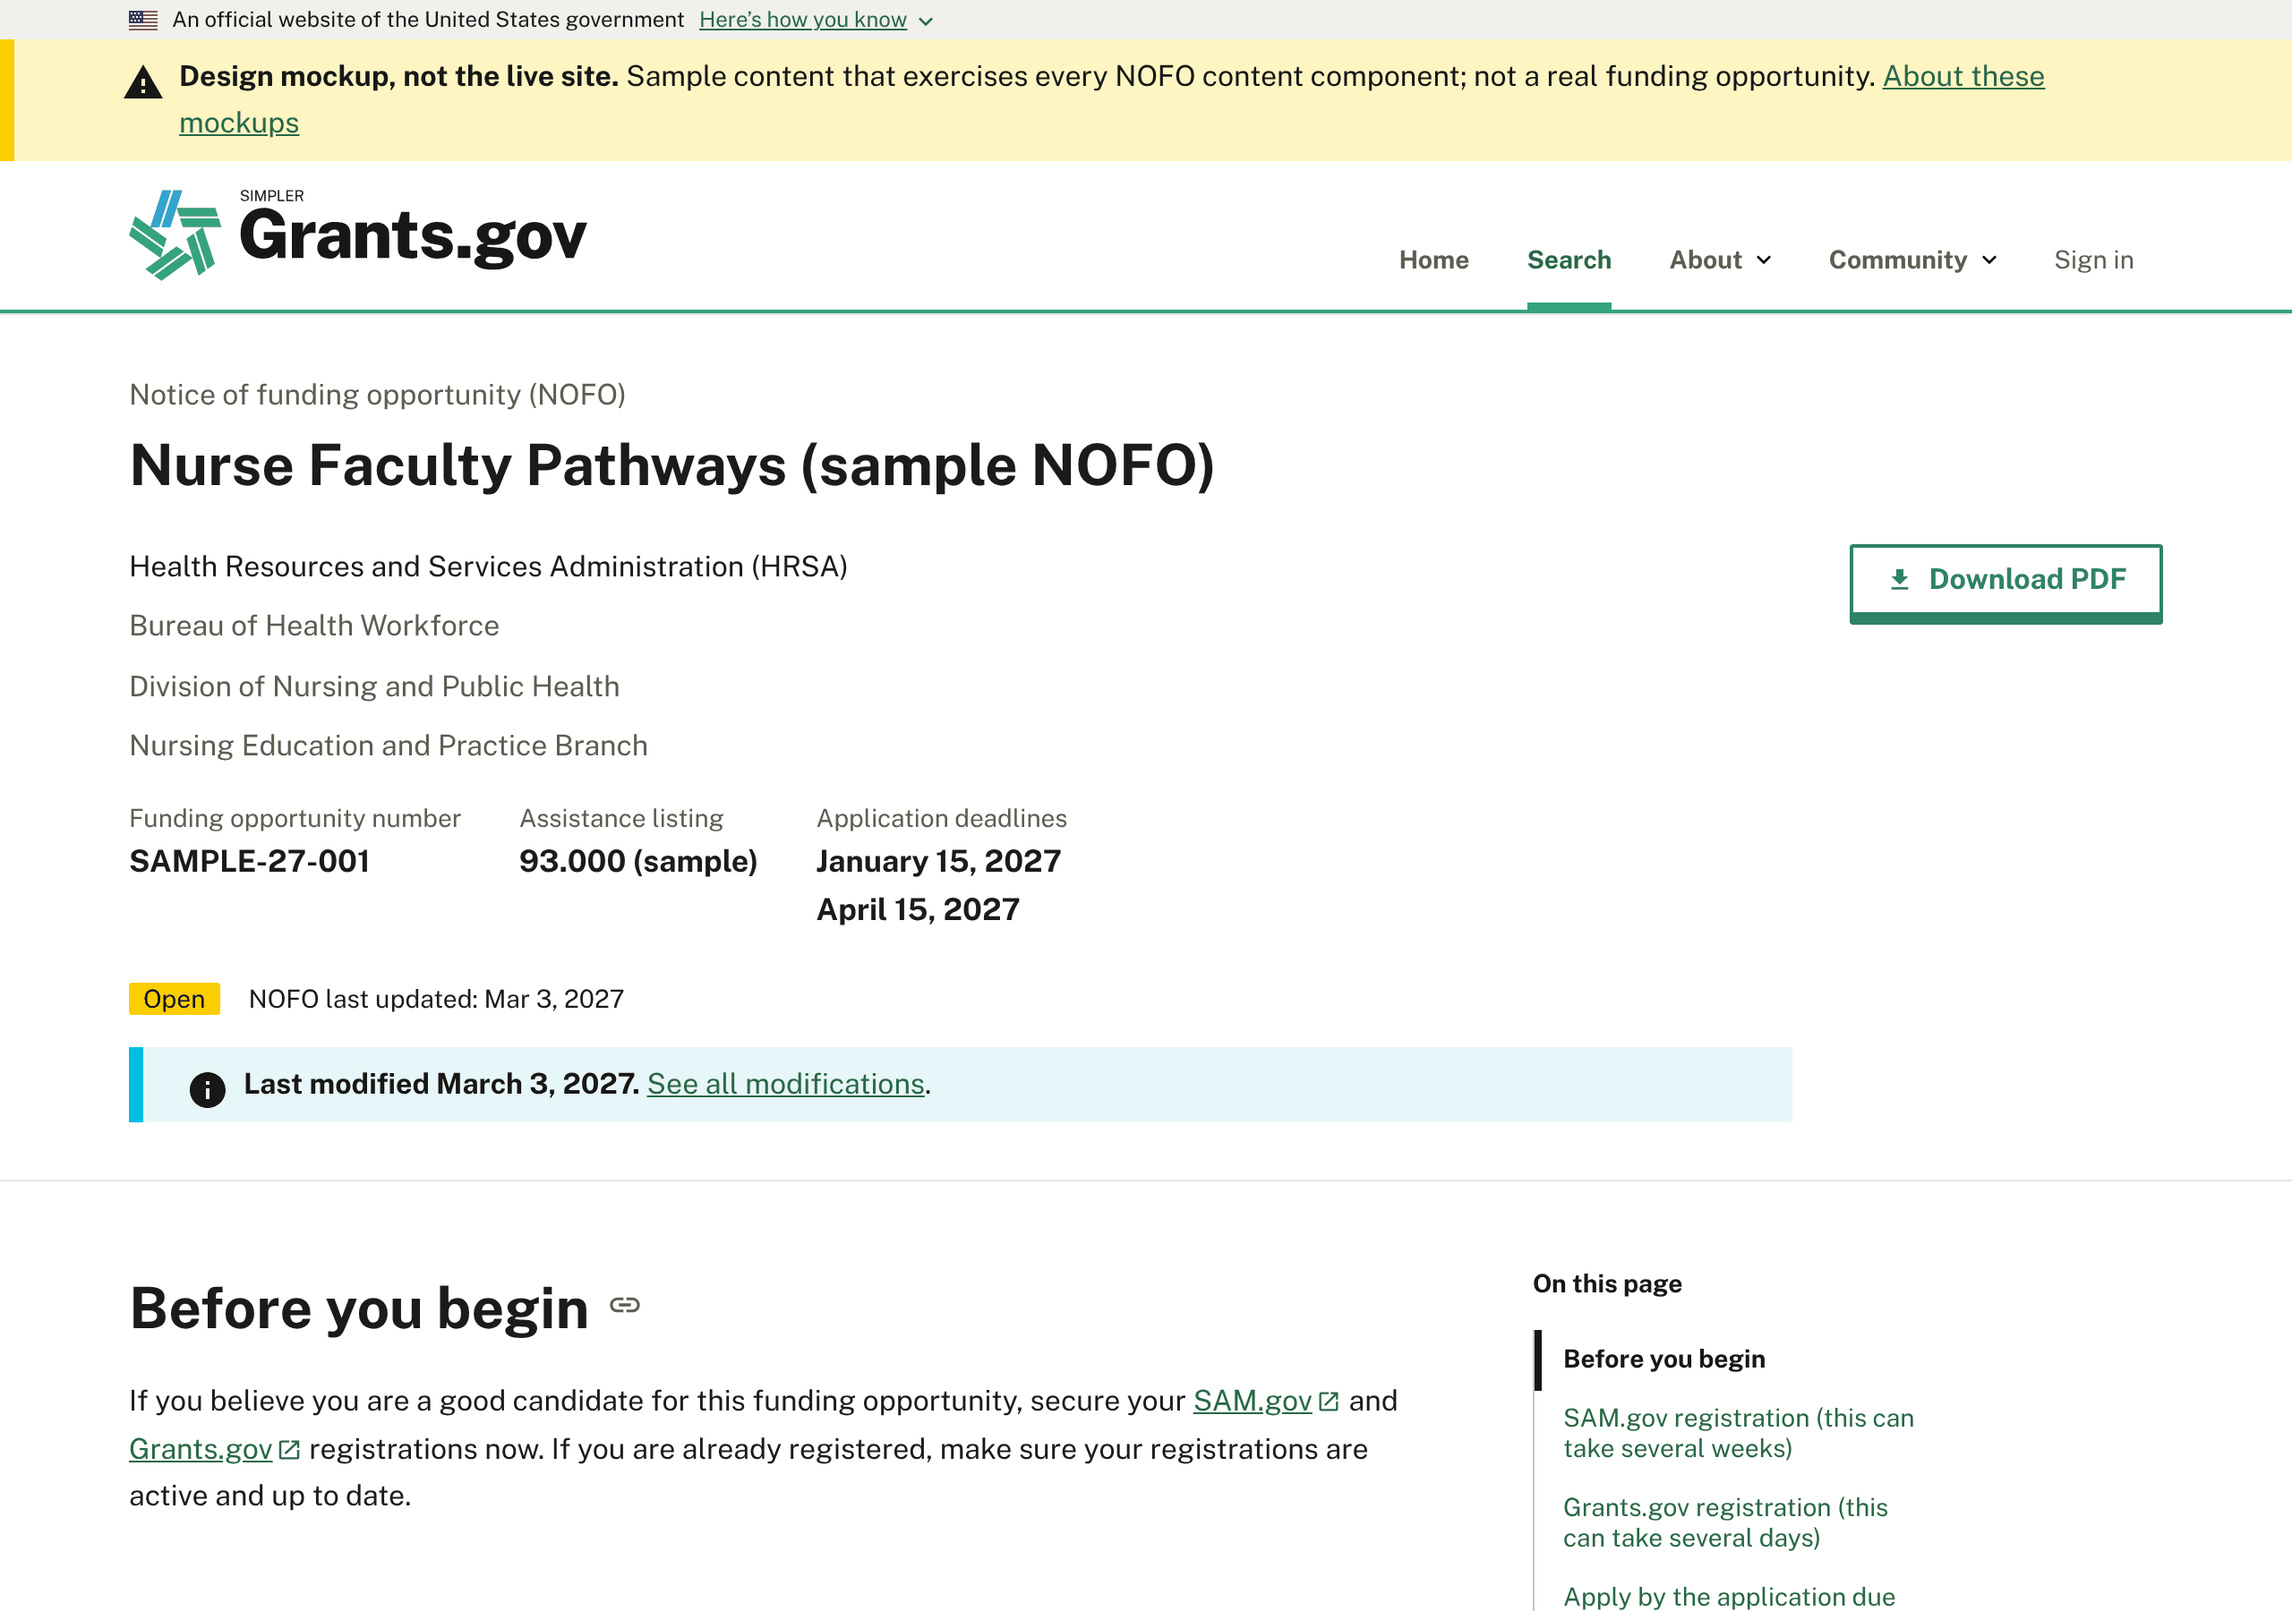
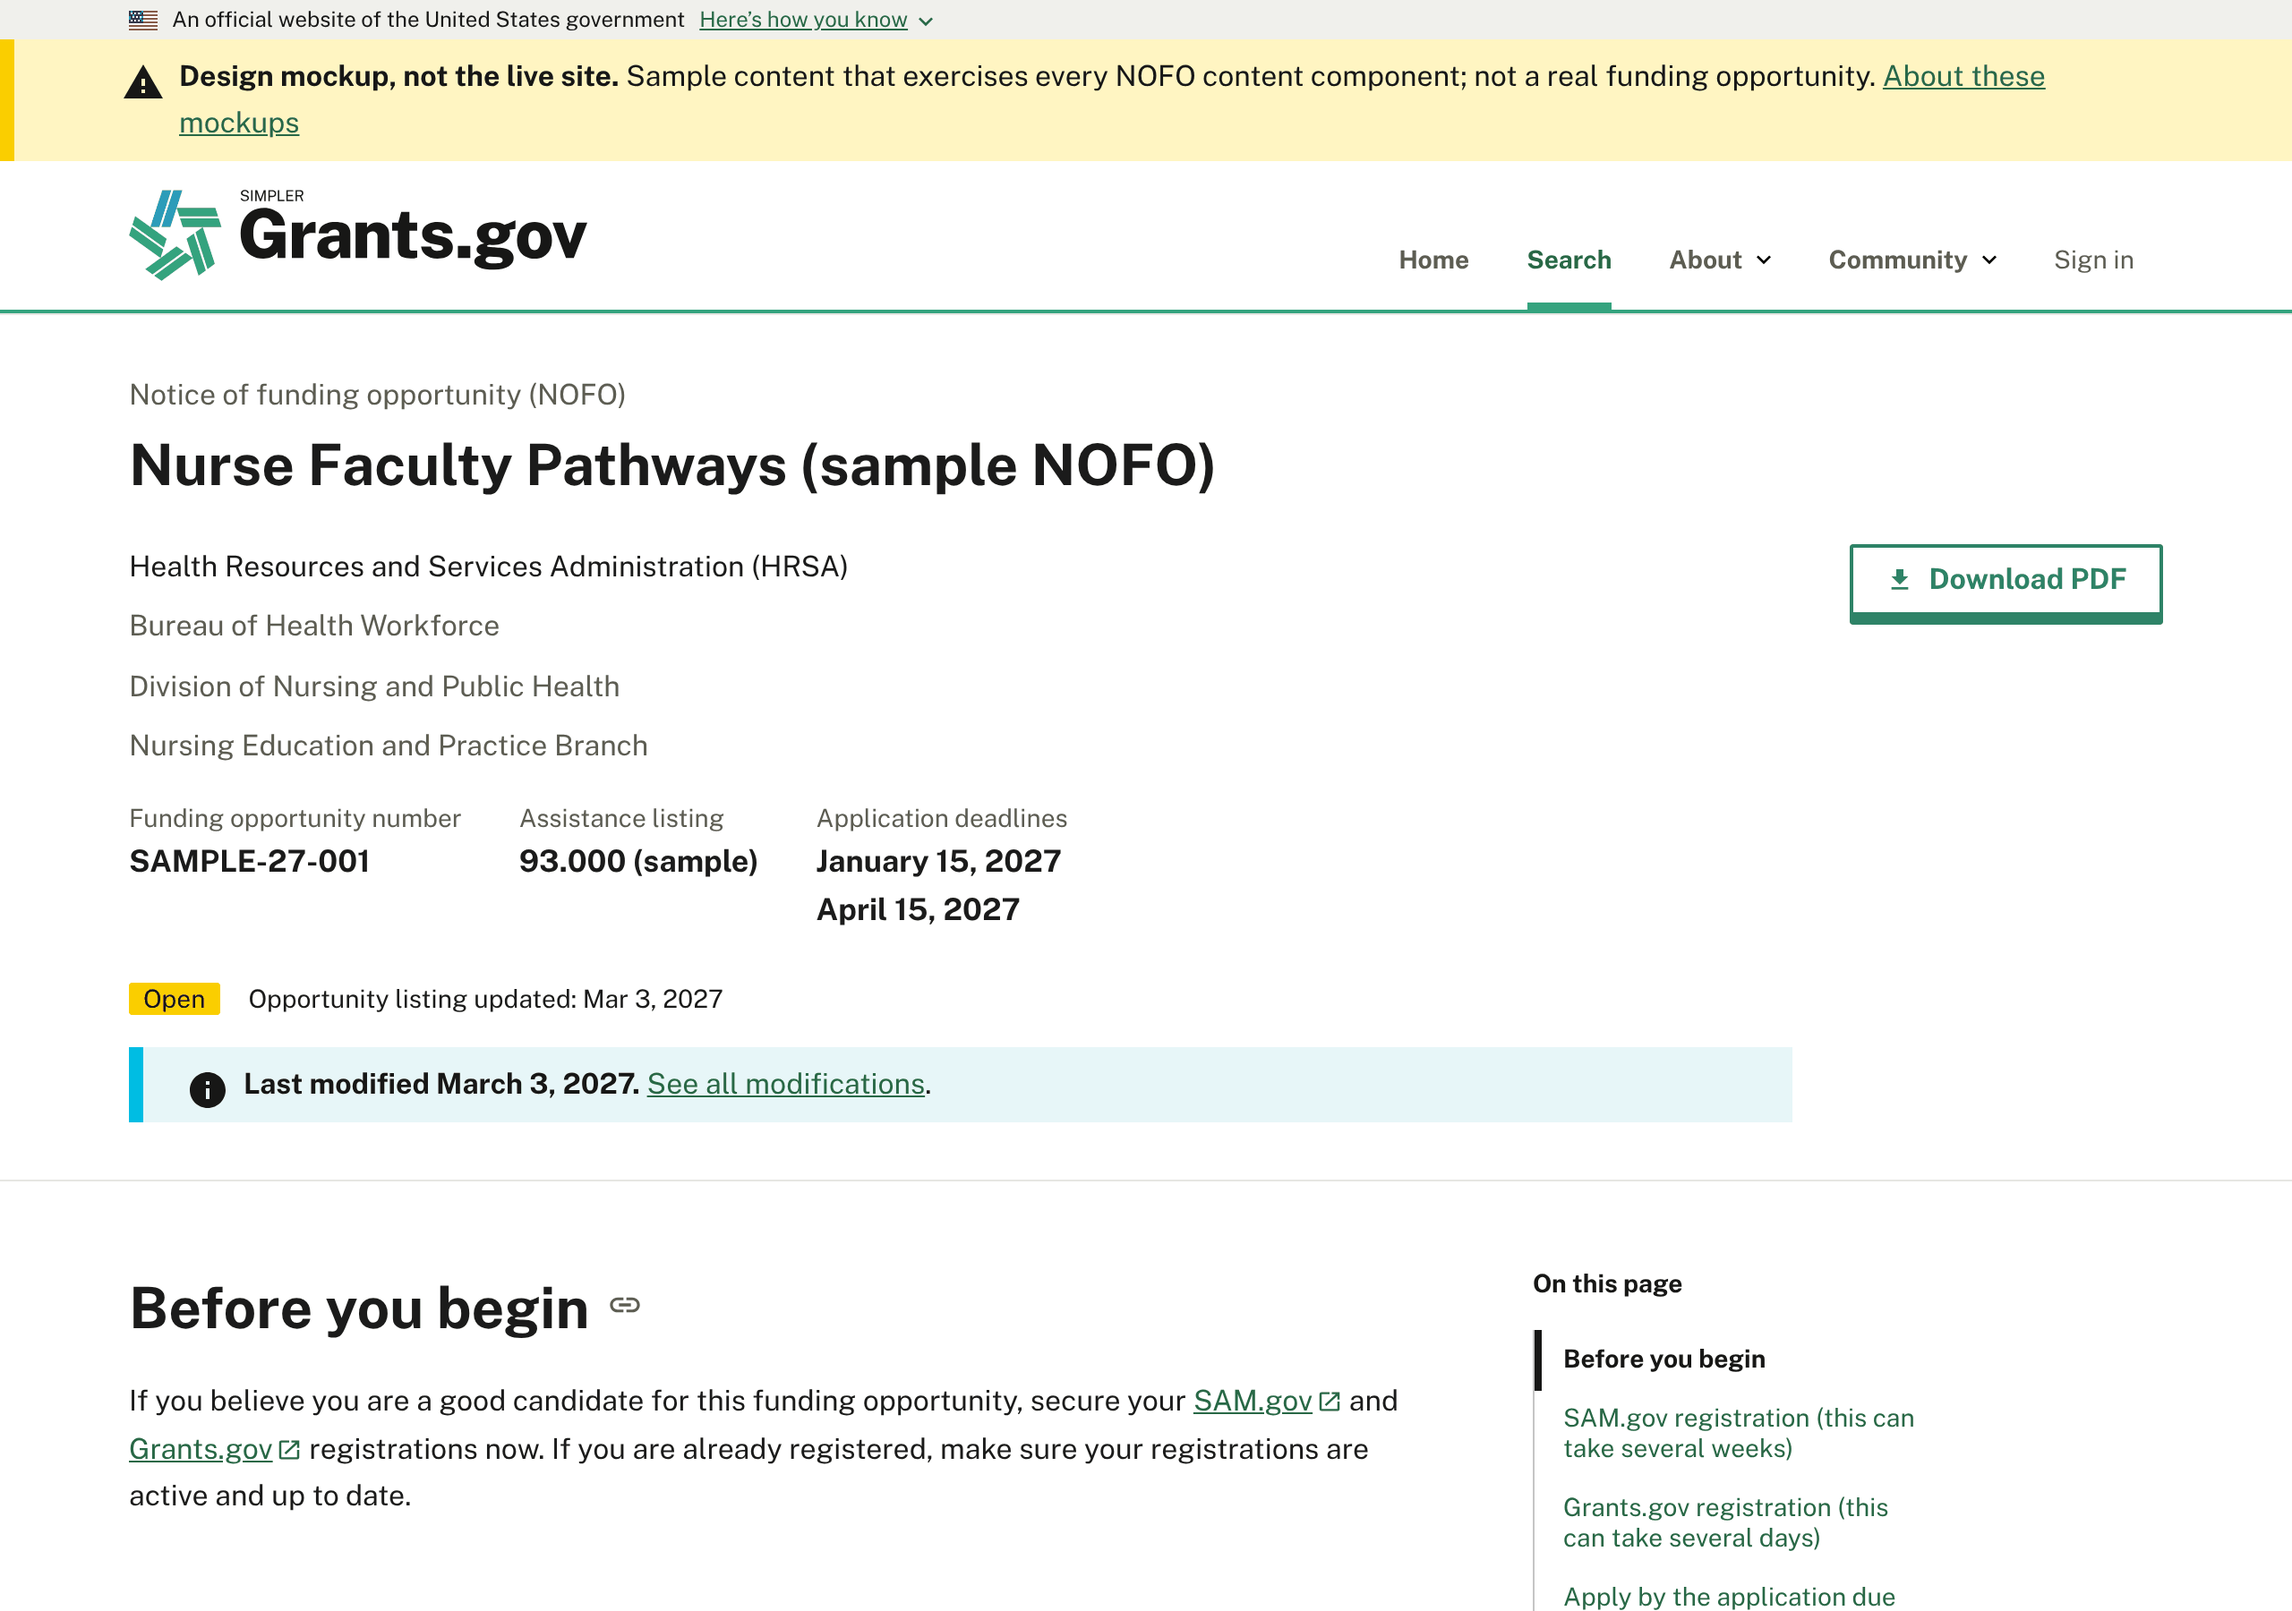
fix: label the listing's update date correctly on #851 NOFO pages
The Simpler.Grants.gov NOFO pages showed the opportunity record's
lastModifiedAt as "NOFO last updated", but the NOFO text comes from the
Builder fixture and the API has no document revision date. The label now
reads "Opportunity listing updated"; the NOFO's own revisions show in the
"Last modified" banner from the Builder's modifications field. Regenerates
the three affected pages and two screenshots.

Claude-Session: https://claude.ai/code/session_01LdT8aiDydGb9wKrQxWjjGf

Changed region(s): [[0.125, 0.5911, 0.2812, 0.6222]]

diff --git a/documentation/review-evidence/851/prototypes/simpler-grants/components.html b/documentation/review-evidence/851/prototypes/simpler-grants/components.html
@@ -169,7 +169,7 @@ body{background:#fff;color:#1b1b1b;margin:0}
         <li><span class="k">Assistance listing</span><span class="v">93.000 (sample)</span></li>
         <li><span class="k">Application deadlines</span><span class="v"><ul class="nofo-deadlines"><li>January 15, 2027</li><li>April 15, 2027</li></ul></span></li>
       </ul>
-      <p class="margin-top-0 margin-bottom-0 font-sans-2xs"><span class="usa-tag text-no-uppercase font-sans-2xs radius-sm margin-right-2 bg-accent-warm-light text-ink">Open</span>NOFO last updated: Mar 3, 2027</p>
+      <p class="margin-top-0 margin-bottom-0 font-sans-2xs"><span class="usa-tag text-no-uppercase font-sans-2xs radius-sm margin-right-2 bg-accent-warm-light text-ink">Open</span>Opportunity listing updated: Mar 3, 2027</p>
       <div class="margin-top-2"><div class="usa-alert usa-alert--info usa-alert--slim nofo-modified"><div class="usa-alert__body"><p class="usa-alert__text"><strong>Last modified March 3, 2027.</strong> <a class="usa-link" href="#modifications">See all modifications</a>.</p></div></div></div>
     </div></div>
     <div class="margin-top-3 tablet-lg:margin-top-0 tablet-lg:margin-left-4">

diff --git a/documentation/review-evidence/851/prototypes/simpler-grants/nofo-standalone.html b/documentation/review-evidence/851/prototypes/simpler-grants/nofo-standalone.html
@@ -133,7 +133,7 @@ body{background:#fff;color:#1b1b1b;margin:0}
         <li><span class="k">Assistance listing</span><span class="v">93.679</span></li>
         <li><span class="k">Application deadline</span><span class="v">January 15, 2025</span></li>
       </ul>
-      <p class="margin-top-0 margin-bottom-0 font-sans-2xs"><span class="usa-tag text-no-uppercase font-sans-2xs radius-sm margin-right-2 bg-base-lighter text-ink">Archived</span>NOFO last updated: Nov 13, 2024</p>
+      <p class="margin-top-0 margin-bottom-0 font-sans-2xs"><span class="usa-tag text-no-uppercase font-sans-2xs radius-sm margin-right-2 bg-base-lighter text-ink">Archived</span>Opportunity listing updated: Nov 13, 2024</p>
       <div class="margin-top-2"></div>
     </div></div>
     <div class="margin-top-3 tablet-lg:margin-top-0 tablet-lg:margin-left-4">

diff --git a/documentation/review-evidence/851/prototypes/simpler-grants/nofo.html b/documentation/review-evidence/851/prototypes/simpler-grants/nofo.html
@@ -174,7 +174,7 @@ body{background:#fff;color:#1b1b1b;margin:0}
         <li><span class="k">Assistance listing</span><span class="v">93.679</span></li>
         <li><span class="k">Application deadline</span><span class="v">January 15, 2025</span></li>
       </ul>
-      <p class="margin-top-0 margin-bottom-0 font-sans-2xs"><span class="usa-tag text-no-uppercase font-sans-2xs radius-sm margin-right-2 bg-base-lighter text-ink">Archived</span>NOFO last updated: Nov 13, 2024</p>
+      <p class="margin-top-0 margin-bottom-0 font-sans-2xs"><span class="usa-tag text-no-uppercase font-sans-2xs radius-sm margin-right-2 bg-base-lighter text-ink">Archived</span>Opportunity listing updated: Nov 13, 2024</p>
       <div class="margin-top-2"></div>
     </div></div>
     <div class="margin-top-3 tablet-lg:margin-top-0 tablet-lg:margin-left-4">

diff --git a/documentation/review-evidence/851/scripts/build_sgg.py b/documentation/review-evidence/851/scripts/build_sgg.py
@@ -298,6 +298,8 @@ def nofo_page(nofo, opp, chrome_parts, standalone, listing_href="opportunity.htm
         if n
     )
     n_deadlines = len(base.deadlines(nofo))
+    # The date beside the status tag is the opportunity record's lastModifiedAt, not a NOFO
+    # revision date; the NOFO's own revisions show in the "Last modified" banner.
     header = f"""
 <div class="bg-white border-bottom border-base-lighter"><div class="grid-container padding-y-3 tablet-lg:padding-y-4">
   {crumbs}
@@ -312,7 +314,7 @@ def nofo_page(nofo, opp, chrome_parts, standalone, listing_href="opportunity.htm
         <li><span class="k">Assistance listing</span><span class="v">{esc(aln)}</span></li>
         <li><span class="k">Application deadline{'s' if n_deadlines > 1 else ''}</span><span class="v">{base.deadline_html(nofo)}</span></li>
       </ul>
-      <p class="margin-top-0 margin-bottom-0 font-sans-2xs"><span class="usa-tag text-no-uppercase font-sans-2xs radius-sm margin-right-2 {tag_cls}">{esc(status_label)}</span>NOFO last updated: {fmt_date(opp['lastModifiedAt'][:10])}</p>
+      <p class="margin-top-0 margin-bottom-0 font-sans-2xs"><span class="usa-tag text-no-uppercase font-sans-2xs radius-sm margin-right-2 {tag_cls}">{esc(status_label)}</span>Opportunity listing updated: {fmt_date(opp['lastModifiedAt'][:10])}</p>
       <div class="margin-top-2">{base.modified_banner(nofo, sections)}</div>
     </div></div>
     <div class="margin-top-3 tablet-lg:margin-top-0 tablet-lg:margin-left-4">
